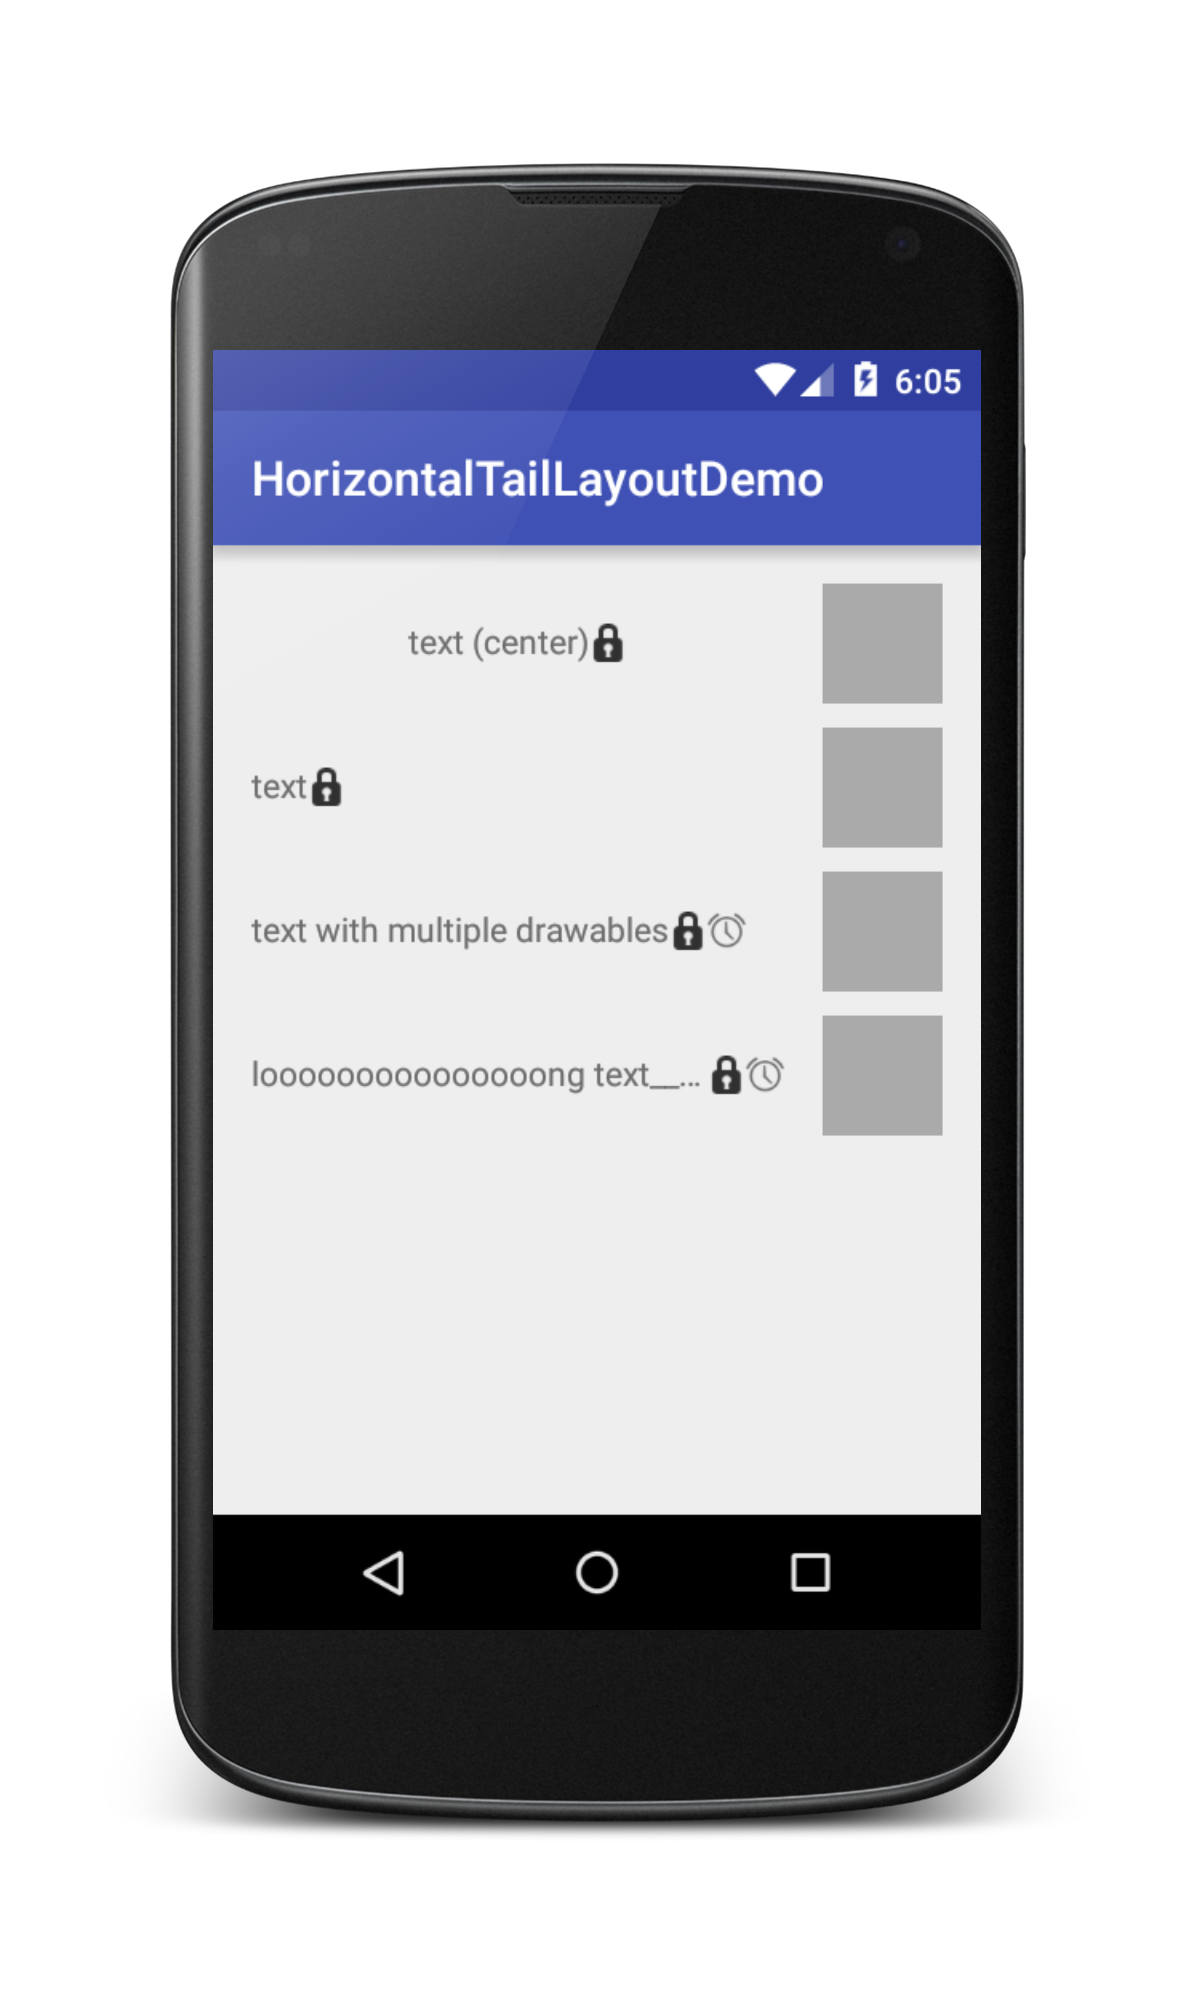
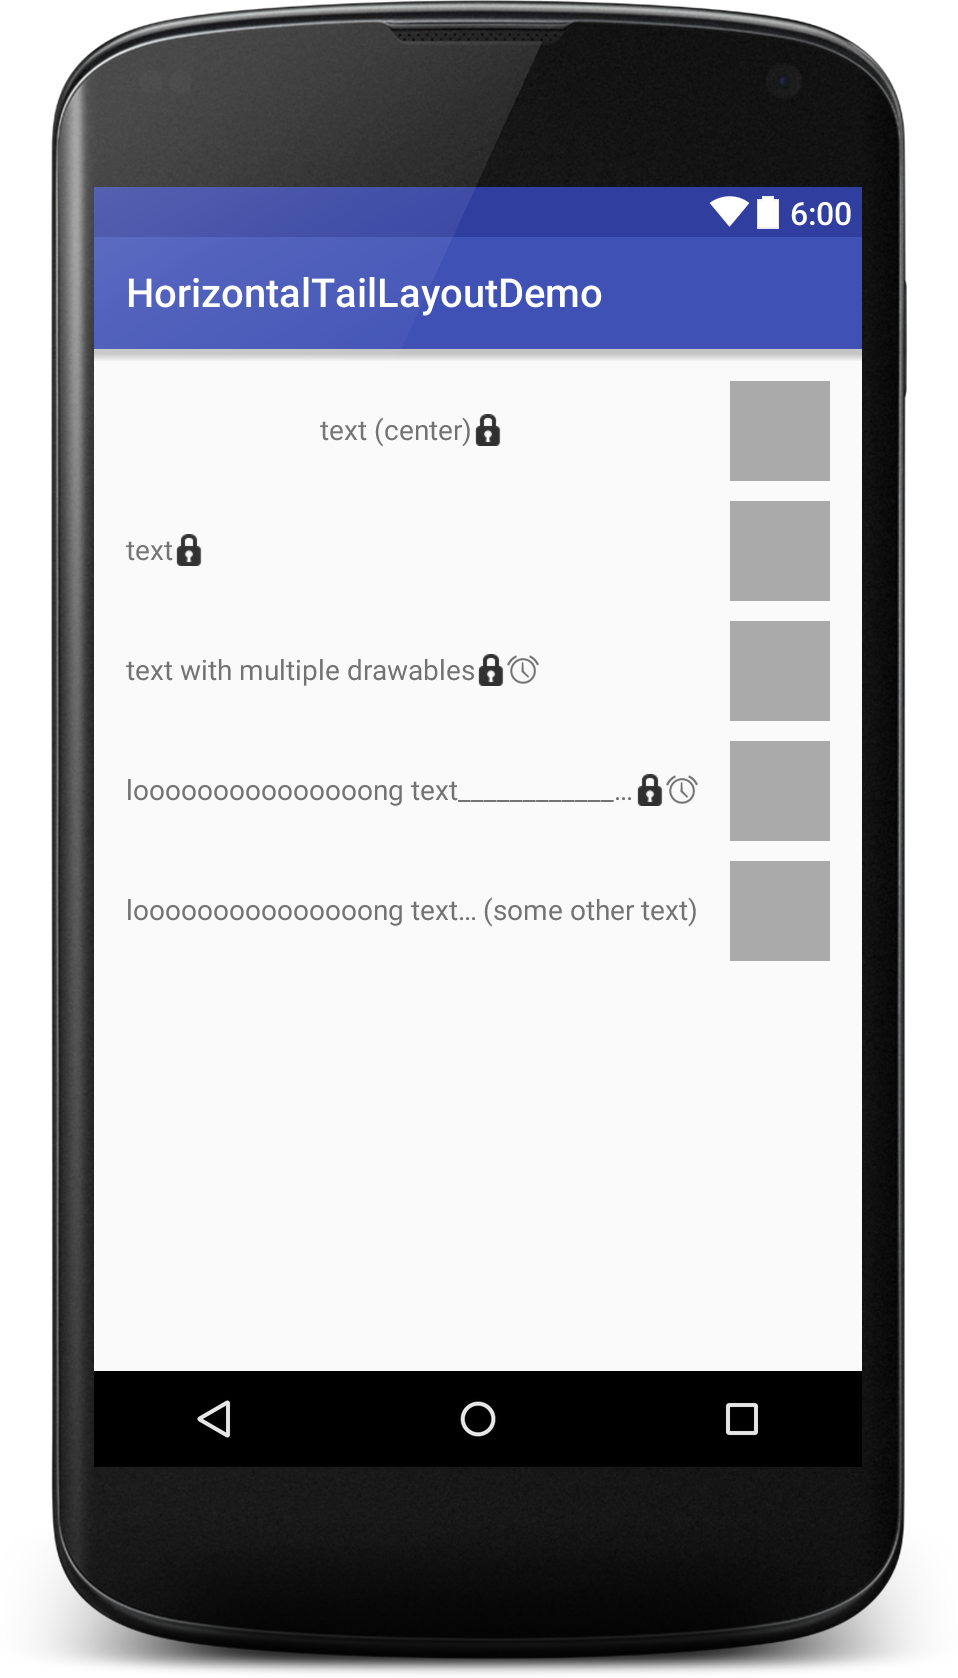
release to jcenter and update README

diff --git a/README.md b/README.md
@@ -3,16 +3,25 @@ Android-HorizontalTailLayout
 
 A simple implementation of a custom layout which solves the issues of grouping a child view with its tailing views. 
 
-One example is when right drawable used with `TextView`. To make sure text is wrapped properly, we normally want to have `TextView` extend to match the full width of its parent view, but the drawable would end up showing in the right-most position though having a pretty short length of text. 
+One example is when right drawable used with `TextView`. To make sure text is ellipsized properly, we normally want to have `TextView` extend to match the full width of its parent view, but the drawable would end up showing in the right-most position though having a pretty short length of text. 
+
+Another example is when you want to append another `TextView` after a length-felxible `TextView` i.e. showing group member count after group name. If group name is really long, we'll want to truncate the group name to leave room for member count. Otherwise we'll want member count to be right next to group name.
+
+Unfortunately there is no straightforward way to implement this using built-in UI widgets.
 
 What `HorizontalTailLayout` offers:
 * smarter layout in general - guarantee that tailing views to follow closely when there is room for display, and squeeze only the first view otherwise
-* a more flexible solution for `TextView` right drawable
+* easy to use just like other built-in layouts
 
 <img src="./arts/demo.png" width="500">
 
 Usage
 -----
+```
+dependencies {
+    compile 'com.github.bosphere.android-horizontaltaillayout:horizontaltaillayout:1.0.0'
+}
+```
 
 ```
 <com.bosphere.horizontaltaillayout.HorizontalTailLayout
@@ -44,16 +53,16 @@ API 7 (Android 2.1) and up
 License
 -------
 
-    Copyright 2014 Yang Bo
+Copyright 2014 Yang Bo
 
-    Licensed under the Apache License, Version 2.0 (the "License");
-    you may not use this file except in compliance with the License.
-    You may obtain a copy of the License at
-    
-       http://www.apache.org/licenses/LICENSE-2.0
-    
-    Unless required by applicable law or agreed to in writing, software
-    distributed under the License is distributed on an "AS IS" BASIS,
-    WITHOUT WARRANTIES OR CONDITIONS OF ANY KIND, either express or implied.
-    See the License for the specific language governing permissions and
-    limitations under the License.
+Licensed under the Apache License, Version 2.0 (the "License");
+you may not use this file except in compliance with the License.
+You may obtain a copy of the License at
+
+   http://www.apache.org/licenses/LICENSE-2.0
+
+Unless required by applicable law or agreed to in writing, software
+distributed under the License is distributed on an "AS IS" BASIS,
+WITHOUT WARRANTIES OR CONDITIONS OF ANY KIND, either express or implied.
+See the License for the specific language governing permissions and
+limitations under the License.
